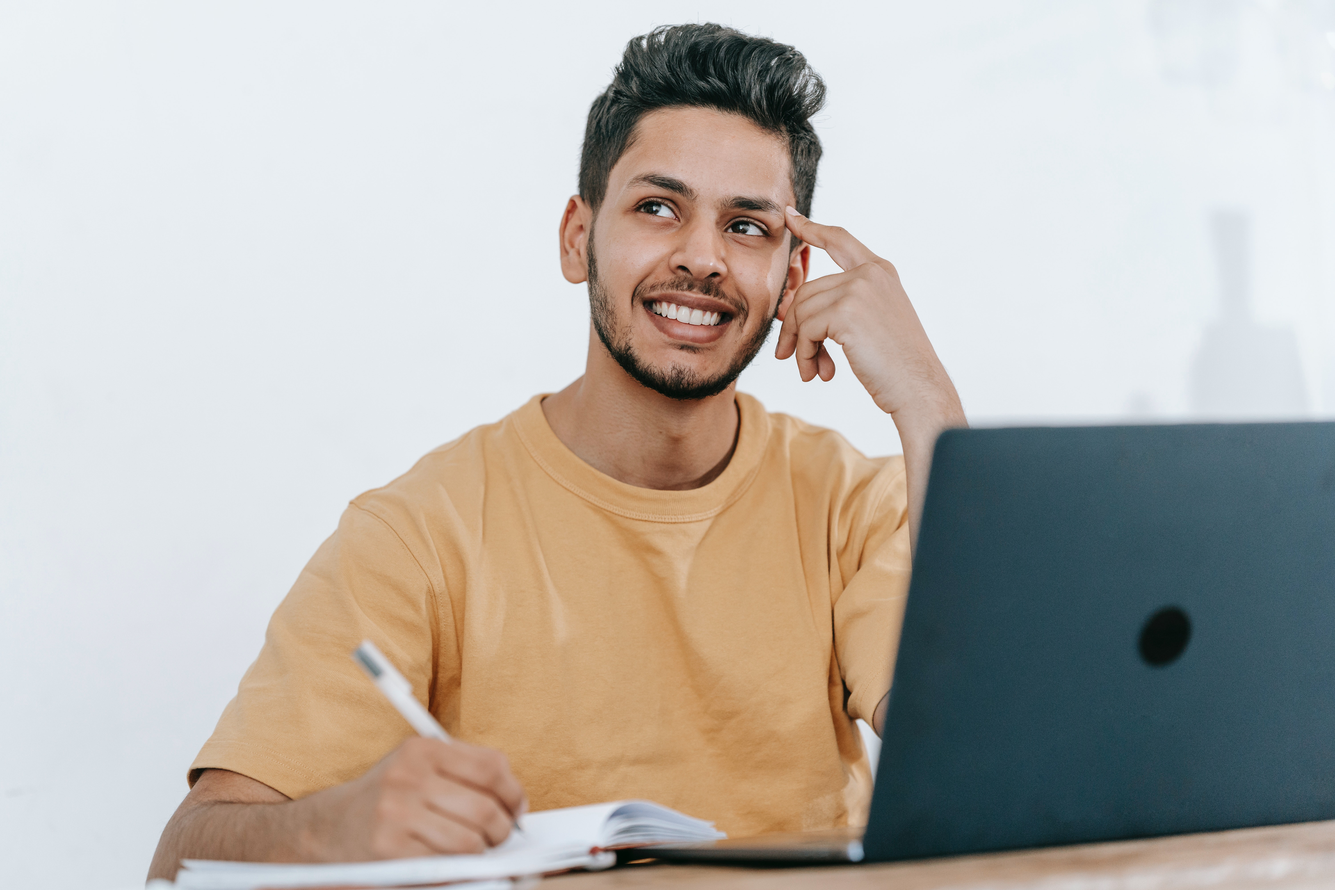
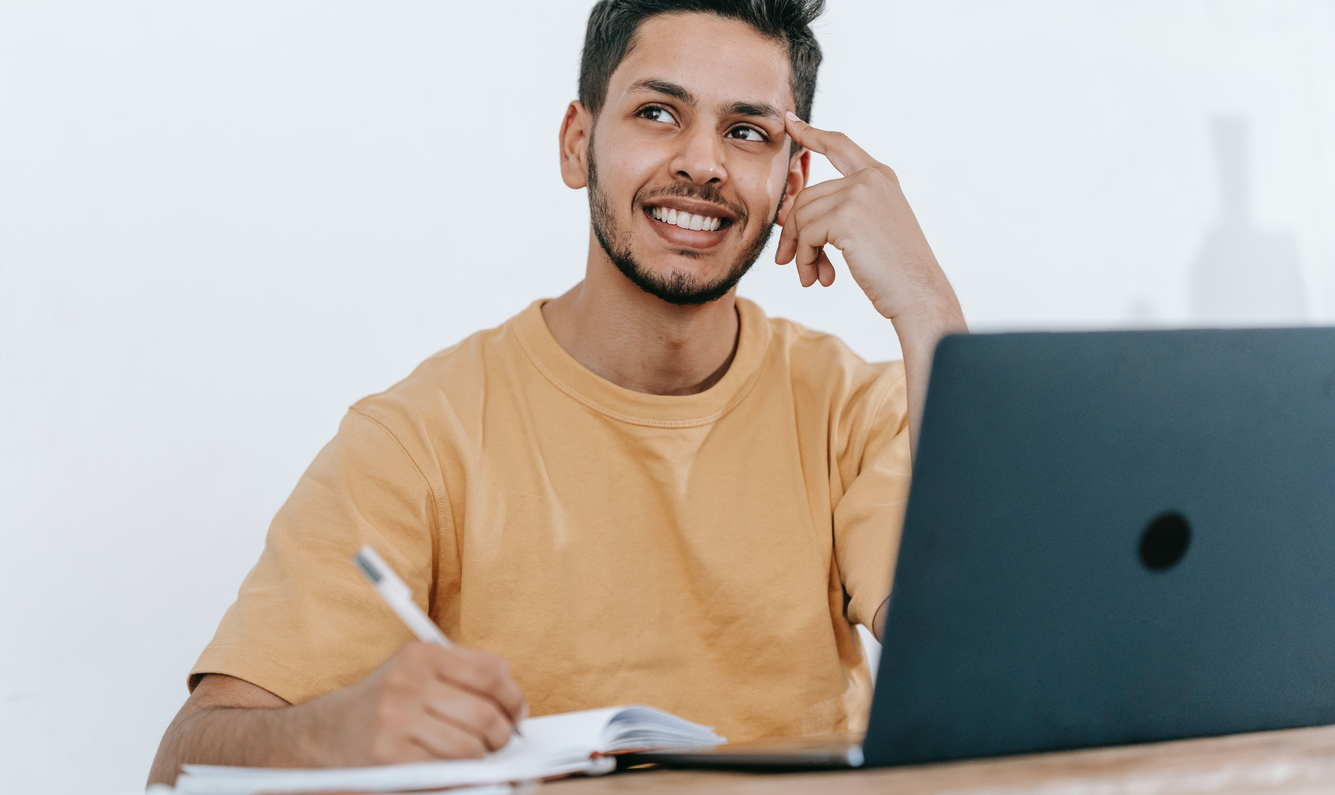
Apply Sign-up Responsive

diff --git a/styles/modules/SignUp/_styles.scss b/styles/modules/SignUp/_styles.scss
@@ -1,50 +1,89 @@
 .sign-up-section {
-  padding-bottom: 13.7rem;
+  @include view-size(big-desktop) {
+    padding-bottom: 13.7rem;
+  }
 
   @import "./PasswordRule/styles";
   .background {
-    position: fixed !important; // Override for nextjs/Image position. Can't change without !important
-    z-index: -1;
-    width: 100%;
-    height: 100%;
+    display: none;
+    @include view-size(desktop) {
+      display: block;
+      position: fixed !important; // Override for nextjs/Image position. Can't change without !important
+      z-index: -1;
+      width: 100%;
+      height: 100%;
+      min-width: 130rem;
+    }
   }
-
+  .background-mobile {
+    display: block;
+    @include view-size(desktop) {
+      display: none;
+    }
+  }
   .banner-container {
     display: flex;
-    padding: 13.2rem 15rem 13.2rem 10rem;
-    justify-content: space-between;
-
+    justify-content: center;
+    @include side-padding;
+    padding-bottom: 10rem;
     @include view-size(tab-land) {
-      display: flex;
       row-gap: 5rem;
-      flex-direction: column;
     }
-
     @include view-size(desktop) {
-      display: flex;
-      padding: 13.2rem 15rem 0 10rem;
       justify-content: space-between;
       flex-direction: row;
     }
-  }
-
-  .banner-description-text {
-    max-width: 58rem;
+    @include view-size(big-desktop) {
+      padding: 13.2rem 15rem 0 10rem;
+    }
   }
 
   .banner-description-text {
     color: $tropical-rain-forest;
-
-    font-size: 10rem;
+    position: absolute;
+    top: 29vw;
+    left: 0;
+    font-size: 8.88888vw;
+    max-width: 80rem;
+    width: 80vw;
+    @include side-padding;
+    @include view-size(tab-port) {
+      top: 27vw;
+    }
+    @include view-size(tab-land) {
+      font-size: 8rem;
+    }
     @include view-size(desktop) {
+      position: unset;
+      max-width: 58rem;
+      width: 43vw;
       font-size: min(5.208vw, 10rem);
+      padding: 0;
+    }
+  }
+
+  .sign-up-filter {
+    height: 72vw;
+    width: 100%;
+    background: transparent
+      linear-gradient(127deg, $white 0%, $white-2e 82%, $transparent 100%) 0% 0%
+      no-repeat padding-box;
+    mix-blend-mode: lighten;
+    opacity: 0.75;
+    position: absolute;
+    top: 8rem;
+    @include view-size(desktop) {
+      display: none;
     }
   }
 
   .journey-text {
     color: $tropical-rain-forest;
-
-    font-size: 12rem;
+    font-size: 8.88888vw;
+    font-weight: 500;
+    @include view-size(tab-land) {
+      font-size: 8rem;
+    }
     @include view-size(desktop) {
       font-size: min(6.25vw, 12rem);
     }
@@ -52,29 +91,40 @@
 
   .sign-up-container {
     background: $white;
-    padding: 4.8rem 5rem 5.4rem 4.8rem;
-    width: 62.5rem;
-
-    @include view-size(tab-land) {
-      width: 100%;
-    }
-
+    width: 100%;
+    max-width: 70rem;
     @include view-size(desktop) {
+      padding: 4.8rem 5rem 5.4rem 4.8rem;
       width: 62.5rem;
     }
   }
 
   .sign-up-title {
-    font-size: 2.8rem;
+    font-size: 2.6rem;
     font-weight: bold;
     color: $tropical-rain-forest;
     margin-bottom: 1.7rem;
+
+    @include view-size(tab-port) {
+      text-align: center;
+    }
+    @include view-size(desktop) {
+      font-size: 2.8rem;
+      text-align: start;
+    }
   }
 
   .login-container {
     display: flex;
     align-items: center;
     margin-bottom: 4.3rem;
+    justify-content: flex-start;
+    @include view-size(tab-port) {
+      justify-content: center;
+    }
+    @include view-size(desktop) {
+      justify-content: flex-start;
+    }
   }
 
   .login-sub-text {
@@ -101,11 +151,11 @@
 
   .terms-and-condition-text {
     color: $jade;
-    font-size: 1.4rem;
+    font-size: 1.6rem;
   }
 
   .sign-up-checkbox {
-    font-size: 1.4rem;
+    font-size: 1.6rem;
   }
 
   .terms-and-condition-container {
@@ -115,9 +165,21 @@
   .ant-checkbox-wrapper {
     margin-left: 0;
   }
-
+  .sign-up-btn-container {
+    display: flex;
+    justify-content: center;
+    @include view-size(desktop) {
+      justify-content: flex-start;
+    }
+  }
   .sign-up-btn {
     width: 100%;
+    @include view-size(tab-port) {
+      max-width: 15rem;
+    }
+    @include view-size(desktop) {
+      max-width: 100%;
+    }
   }
 
   .ant-checkbox + span {

diff --git a/modules/SignUp/index.tsx b/modules/SignUp/index.tsx
@@ -10,7 +10,8 @@ import SignUpBg from "@public/images/sign-up-bg.jpg";
 import Router from "next/router";
 import PasswordRule from "./PasswordRule";
 import isEmpty from "lodash/isEmpty";
-import form from "antd/lib/form";
+import SignUpBgMobile from "@public/images/sign-up-mobile.jpg";
+
 import {
   isAtleastOneNumberRegex,
   hasUppercaseRegex,
@@ -130,15 +131,16 @@ const SignUp = () => {
       <Layout header={<Header title={"Header"} />}>
         <section className="sign-up-section">
           <div className="background">
+            <Image src={SignUpBg} alt="sign-up-bg.jpg" placeholder="blur" />
+          </div>
+          <div className="background-mobile">
             <Image
-              src={SignUpBg}
+              src={SignUpBgMobile}
               alt="sign-up-bg.jpg"
-              layout="fill"
-              objectFit="cover"
-              objectPosition="center"
               placeholder="blur"
             />
           </div>
+          <div className="sign-up-filter"></div>
           <div className="banner-container">
             <div className="banner-description-container">
               <div className="banner-description-text">
@@ -223,13 +225,15 @@ const SignUp = () => {
                   </Checkbox>
                 </Form.Item>
                 <Form.Item noStyle>
-                  <Button
-                    className="sign-up-btn"
-                    type="primary"
-                    htmlType="submit"
-                  >
-                    {t("signUp")}
-                  </Button>
+                  <div className="sign-up-btn-container">
+                    <Button
+                      className="sign-up-btn"
+                      type="primary"
+                      htmlType="submit"
+                    >
+                      {t("signUp")}
+                    </Button>
+                  </div>
                 </Form.Item>
               </Form>
             </div>

diff --git a/styles/modules/SignUp/SuccessMessage/_styles.scss b/styles/modules/SignUp/SuccessMessage/_styles.scss
@@ -3,14 +3,23 @@
   justify-content: center;
   align-items: center;
   flex-direction: column;
-  padding: 20rem 0;
+  @include side-padding;
+  padding-top: 10rem;
+  padding-bottom: 10rem;
+  @include view-size(tab-land) {
+    padding-top: 20rem;
+    padding-bottom: 20rem;
+  }
   .success-message-wrapper {
     max-width: 108rem;
     text-align: center;
   }
 
   .success-message-wrapper svg {
-    margin-bottom: 6rem;
+    margin-bottom: 5rem;
+    @include view-size(desktop) {
+      margin-bottom: 6rem;
+    }
   }
 
   .heading-container,
@@ -19,21 +28,38 @@
   }
   .heading-container {
     color: $tropical-rain-forest;
-    font-size: 4.2rem;
+    font-size: min(7.77777vw, 4.2rem);
     margin-bottom: 4.3rem;
   }
 
   .subheading-container {
     color: $shuttle-gray;
-    font-size: 2.4rem;
-    margin-bottom: 4rem;
+    font-size: 1.8rem;
+    display: flex;
+    justify-content: center;
+    margin-bottom: 3rem;
+    @include view-size(desktop) {
+      margin-bottom: 4rem;
+      font-size: 2.4rem;
+    }
+  }
+  .subheading-container p {
+    width: 77vw;
+    @include view-size(tab-land) {
+      width: 100%;
+    }
   }
 
   .description-container {
     color: $shuttle-gray;
-    font-size: 1.8rem;
-    line-height: 2;
-    margin-bottom: 5rem;
+    font-size: 1.6rem;
+    line-height: 1.8;
+    margin-bottom: 3rem;
+    @include view-size(desktop) {
+      margin-bottom: 5rem;
+      line-height: 2;
+      font-size: 1.8rem;
+    }
   }
 
   .description-container span {
@@ -41,7 +67,10 @@
   }
 
   .success-message-btn {
-    width: 19.6rem;
     background-color: $faux-green;
+    width: 100%;
+    @include view-size(450px) {
+      width: 19.6rem;
+    }
   }
 }

diff --git a/modules/SignUp/SuccessMessage/index.tsx b/modules/SignUp/SuccessMessage/index.tsx
@@ -13,7 +13,10 @@ const SuccessMessage = () => {
         <SuccessMessageIcon fill="#CCCCCC" width="147" height="140" />
         <div className="heading-container">Account Successfully Created</div>
         <div className="subheading-container ">
-          Log in to start learning about your Rights & Responsibilities at Work.
+          <p>
+            Log in to start learning about your Rights & Responsibilities at
+            Work.
+          </p>
         </div>
         <div className="description-container ">
           Learn from a comprehensive training that let you learn about your
